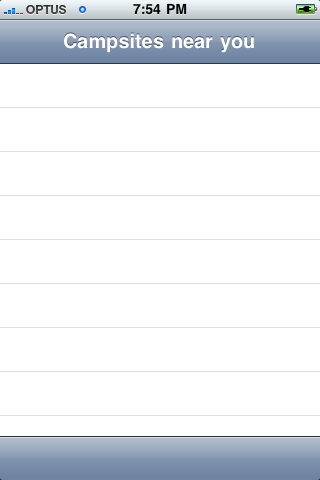
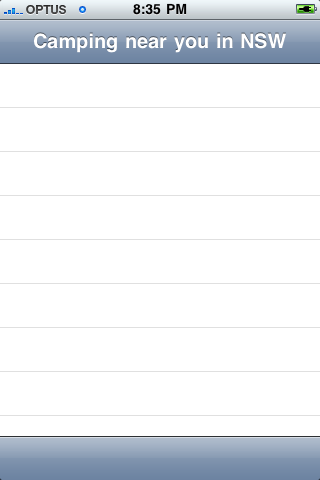
Updated title (and default load screen) to include NSW [#30 state:resolved]

Changed region(s): [[0.0938, 0.0625, 0.9062, 0.125], [0.4062, 0.0, 0.5, 0.0312]]

diff --git a/Classes/NearestCampsitesViewController.m b/Classes/NearestCampsitesViewController.m
@@ -22,7 +22,7 @@
     [super viewDidLoad];
 	
 	// Set the title.
-    self.title = @"Campsites near you";
+    self.title = @"Camping near you in NSW";
 	
 	//self.tableView.allowsSelection = NO;
     [containerView addSubview:tableView];
